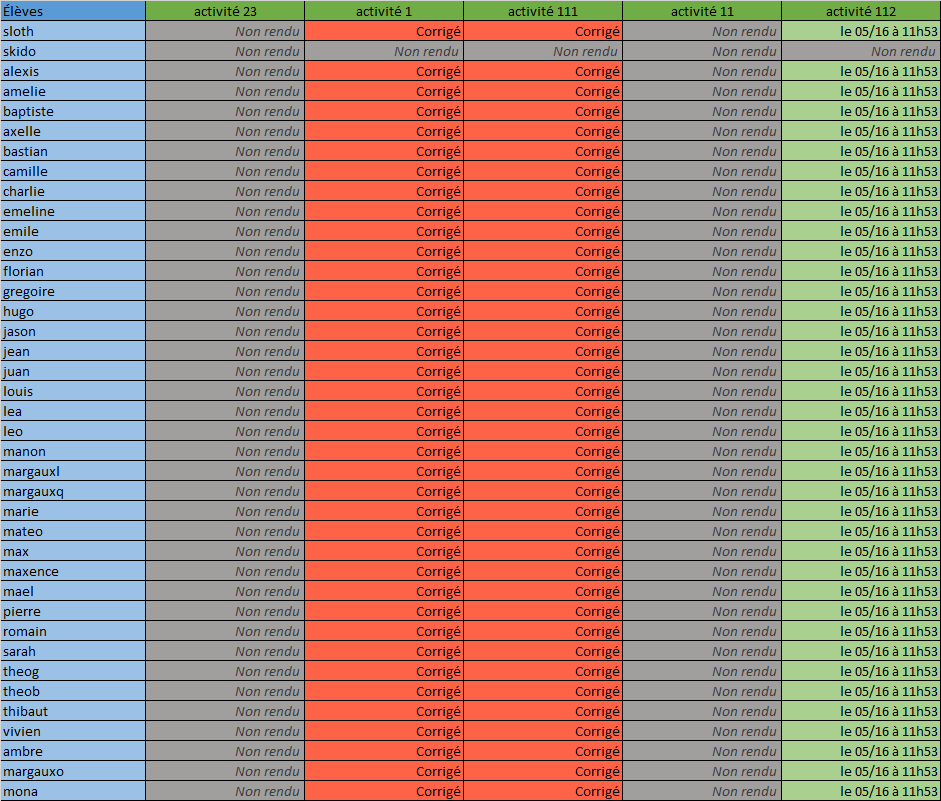
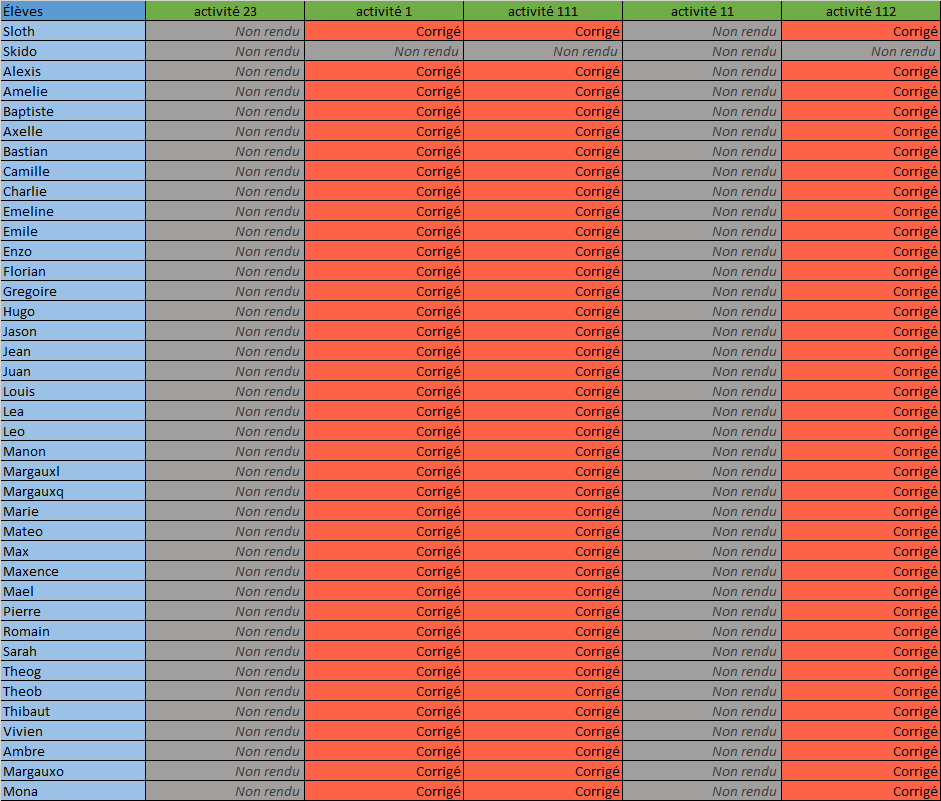
correctif d'un oubli (prise en compte du bon nom et optimisation du code

diff --git a/Cogs/Cogs.py b/Cogs/Cogs.py
@@ -60,7 +60,7 @@ class Test(commands.Cog):
         for std in all_std:
             col = 0
             row += 1
-            worksheet.write(row, col, std['name'], std_format)
+            worksheet.write(row, col, std['name'].title(), std_format)
             for hmw in all_hmw:
                 col+=1
                 if len(list(self.db.student_hmw.find({'student_id':std["student_id"], 'hmw_name': hmw['name']}))) == 0:
@@ -267,6 +267,13 @@ class Test(commands.Cog):
             await asyncio.sleep(15)
             await errormsg.delete()
         else:
+            subject = self.db.professeur.find({'id': ctx.message.author.id})[0]['subject']
+            url = ctx.message.attachments[0].url
+            filename = ctx.message.attachments[0].filename
+            async with aiohttp.ClientSession() as session:
+                async with session.get(url) as resp:
+                    await ctx.message.delete()
+                    file = await resp.read()
             try:
                 name = list(complement)[0].lower()
                 std_list = []
@@ -277,38 +284,38 @@ class Test(commands.Cog):
                     sensibility = 0.5
                     possibility = get_close_matches(name.lower(), std_list, 3, sensibility)
                     if len(possibility) > 0:
-                        self.correction_selec = f"Input: {name} - {len(possibility)} possibilités"
+                        self.correction_selec = f"L'élève: {name} n'existe pas. S'agit il de :"
                         for i in range(0, len(possibility)):
                         #for poss in possibility:
                             self.correction_selec += f"\n\t{self.db.emoji.find({'name':str(i+1)})[0]['value']}: {possibility[i]} ?"
+                        self.correction_selec += f"\n\t{self.db.emoji.find({'name':'cross'})[0]['value']}: Aucun des {len(possibility)}"
                         self.correction_selec = await ctx.message.channel.send(self.correction_selec)
                         for i in range(0, len(possibility)):
                             await self.correction_selec.add_reaction(self.db.emoji.find({'name':str(i+1)})[0]['value'])
+                        await self.correction_selec.add_reaction(self.db.emoji.find({'name':'cross'})[0]['value'])
                         reaction, user = await self.bot.wait_for('reaction_add', timeout=60.0, check=check_reaction)
+                        await self.correction_selec.delete()
                         try:
-                            if self.db.emoji.find({'value': str(reaction)})[0]["name"] in ["0","1","2","3","4","5","6","7","8","9"]:
-                                print("yes")
+                            if self.db.emoji.find({'value': str(reaction)})[0]["name"] == "cross":
+                                self.correction_selec = await ctx.channel.send("Annulation de la commande..")
+                                await asyncio.sleep(3)
+                                await self.correction_selec.delete()
+                                return
+                            elif self.db.emoji.find({'value': str(reaction)})[0]["name"] in ["0","1","2","3","4","5","6","7","8","9"]:
                                 student_obj = self.db.eleve.find({'name': possibility[int(self.db.emoji.find({'value': str(reaction)})[0]["name"])-1]})[0]
-                                subject = self.db.professeur.find({'id': ctx.message.author.id})[0]['subject']
                                 print(f"eleve choisi : {student_obj['name']}")
-                                await self.correction_selec.delete()
                             else:
-                                await self.correction_selec.delete()
-                                await ctx.message.delete()
                                 self.correction_selec = await ctx.channel.send("La commande a été annulée")
                                 await asyncio.sleep(10)
                                 await self.correction_selec.delete()
                                 return
                         except Exception as e:
                             print(e)
-                            await self.correction_selec.delete()
-                            await ctx.message.delete()
                             self.correction_selec = await ctx.channel.send("La commande a été annulée")
                             await asyncio.sleep(10)
                             await self.correction_selec.delete()
                             return
                     else:
-                        await ctx.message.delete()
                         self.correction_selec = await ctx.message.channel.send(f"Input: {name}\n\tAucun élève ne correspond à cette entrée")
                         await asyncio.sleep(15)
                         await self.correction_selec.delete()
@@ -316,12 +323,8 @@ class Test(commands.Cog):
 
                 else:
                     print(f"{name} existe dans la BDD")
-                url = ctx.message.attachments[0].url
-                filename = ctx.message.attachments[0].filename
-                async with aiohttp.ClientSession() as session:
-                    async with session.get(url) as resp:
-                        await ctx.message.delete()
-                        file = await resp.read()
+                    student_obj = self.db.eleve.find({'name': name})[0]
+
                 student = self.bot.get_user(int(student_obj['student_id']))
                 added_msg = ""
                 # Demander devoir
